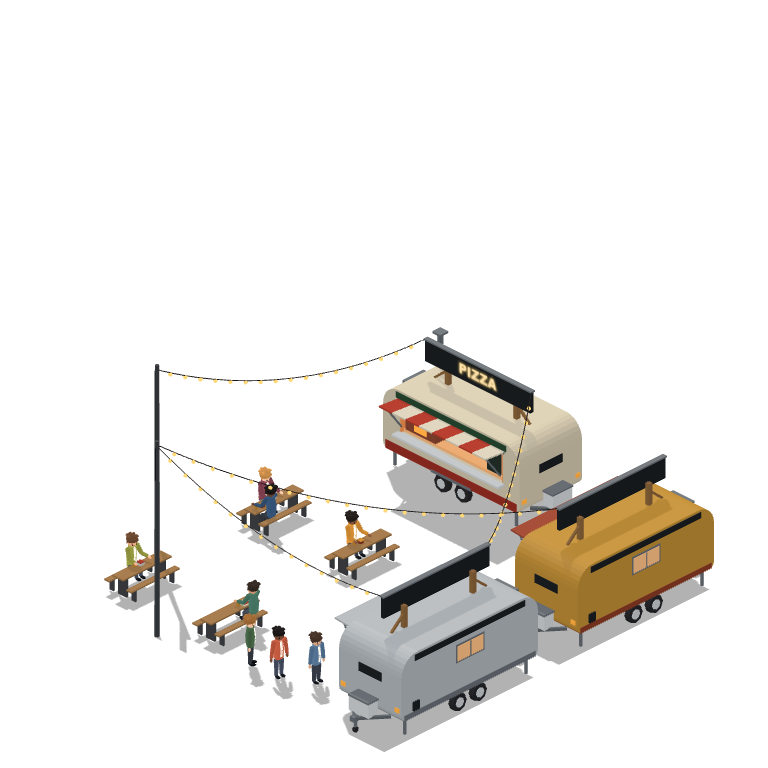
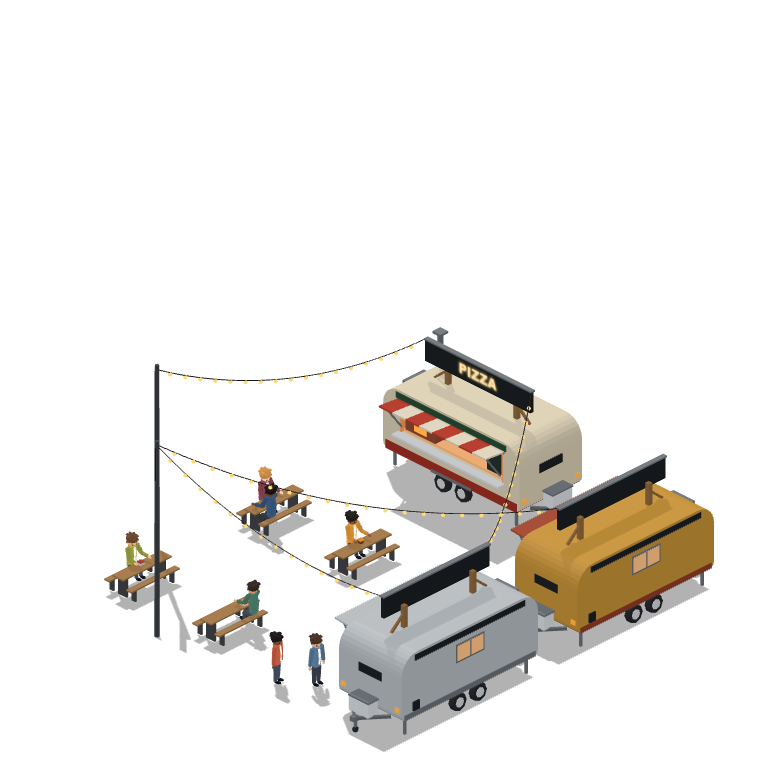
Food truck square: just two people at the burger hatch's far end, so the front of the hatch stays open and inviting

Changed region(s): [[0.3125, 0.7812, 0.4375, 0.9375]]

diff --git a/lib/city/models/cateItSquareStates.ts b/lib/city/models/cateItSquareStates.ts
@@ -299,10 +299,10 @@ export const GUESTS: Guest[] = [
   { at: [4.0, 4.75], yawDeg: 180, meal: 'african', move: 'look', skin: '#7a4e35', hair: '#1c1714', jacket: '#c9852f', tee: '#f1ece2', jeans: '#2f3440' },
   { at: [4.0, 6.75], yawDeg: 180, meal: 'burger', move: 'chat', skin: '#e6b79a', hair: '#b07a3e', jacket: '#7b3b4a', tee: '#e9e4d8', jeans: '#4a5568' },
   { at: [4.3, 6.25], yawDeg: 0, meal: 'african', move: 'bite', skin: '#5e3b28', hair: '#151110', jacket: '#2f4c6e', tee: '#d9c9a8', jeans: '#2b2f36' },
-  // a small queue at the burger hatch's east end (Gustav, 2026-10-21), standing on tile (7, 2) and (7, 3)
-  { at: [7.2, 2.35], yawDeg: 180, meal: 'burger', move: 'look', stand: true, skin: '#c99a7a', hair: '#3b2a20', jacket: '#4d6b8a', tee: '#efe9dd', jeans: '#2f3440' },
-  { at: [7.5, 2.9], yawDeg: 170, meal: 'burger', move: 'chat', stand: true, skin: '#6d4430', hair: '#141110', jacket: '#b5533a', tee: '#e9e4d8', jeans: '#3b4252' },
-  { at: [7.55, 3.5], yawDeg: 215, meal: 'burger', move: 'look', stand: true, skin: '#e4b596', hair: '#8a5a2b', jacket: '#3f5d3f', tee: '#f1ece2', jeans: '#2b2f36' },
+  // just a few people at the burger hatch's far (east) end, one served and one waiting, so the front of the hatch stays
+  // open and inviting (Gustav, 2026-10-21); both on tile (7, 2)
+  { at: [7.25, 2.3], yawDeg: 180, meal: 'burger', move: 'look', stand: true, skin: '#c99a7a', hair: '#3b2a20', jacket: '#4d6b8a', tee: '#efe9dd', jeans: '#2f3440' },
+  { at: [7.65, 2.8], yawDeg: 200, meal: 'burger', move: 'chat', stand: true, skin: '#6d4430', hair: '#141110', jacket: '#b5533a', tee: '#e9e4d8', jeans: '#3b4252' },
   { at: [7.0, 6.75], yawDeg: 180, meal: 'burger', move: 'look', skin: '#d9a07c', hair: '#5a3b26', jacket: '#8c8f3a', tee: '#efe9dd', jeans: '#3b4252' },
 ];
 

diff --git a/lib/city/buildingInteriors.ts b/lib/city/buildingInteriors.ts
@@ -69,14 +69,14 @@ const VALTECH_OFFICE: BuildingInterior = {
 
 // The food truck square, 8 x 7 (lib/city/models/cateItSquareStates.ts): rows 0-1 the street food and burger trailers, the
 // pizza trailer in columns 0-1 of rows 3-6, four beer tables (tiles 3-4 and 6-7 of rows 4 and 6). Rows 2-3 run along the
-// back hatches, row 5 to the pizza hatch (it faces (2,5)), column 5 is the aisle from the way in. Tiles (7,2) and (7,3) hold the queue at the burger hatch. No roof to take off: the plot counts as "inside" only so its stand tiles open their
+// back hatches, row 5 to the pizza hatch (it faces (2,5)), column 5 is the aisle from the way in. Tile (7,2) holds the two people waiting at the burger hatch. No roof to take off: the plot counts as "inside" only so its stand tiles open their
 // cards. Way in and out: the street tile south of (5,6).
 const CATE_IT_SQUARE: BuildingInterior = {
   map: [
     "########",
     "########",
     "QQQQQQQ#",
-    "##QQQQQ#",
+    "##QQQQQQ",
     "##Q##Q##",
     "##QQQQQQ",
     "##Q##Q##",

diff --git a/lib/city/buildings.ts b/lib/city/buildings.ts
@@ -501,7 +501,7 @@ export const BUILDINGS: Record<string, BuildingDefinition> = {
     // south sprite and renders them per frame; paused while the visitor sits (the seated frames are whole)
     ambient: {
       sheet: "/game/pogicity/Building/landmark/cate-it-square-guests_south.png",
-      frames: 12, frameWidth: 392, frameHeight: 144, x: 210, y: 562, fps: 4,
+      frames: 12, frameWidth: 396, frameHeight: 144, x: 210, y: 562, fps: 4,
     },
     // Lit at night: the hatches, the neon food names, the fairy lights across the trucks, the marker lights and the banner
     // (export_square.sh lights pass); two frames, every third bulb dimmer on the second, so the strings twinkle slowly
